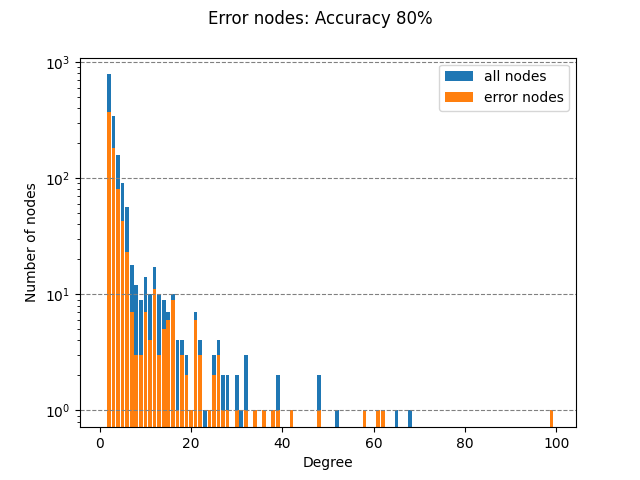
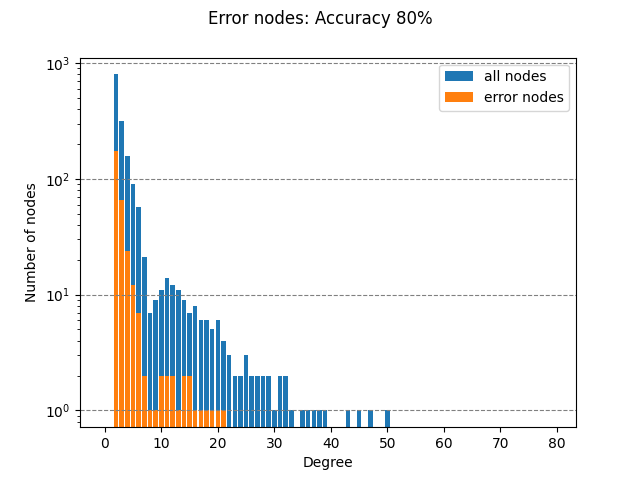
execute inspection

diff --git a/scalefree_graph/inspect_error_nodes.py b/scalefree_graph/inspect_error_nodes.py
@@ -79,15 +79,18 @@ def inspect_error_nodes():
         print('Labeled Node:' + str(cnt) + ', Accuracy: ' + str(1 - err/len(pred)))
         continue
 
+      for i,p in enumerate(pred):
+        all_degree[dict(net.degree())[i]] += (1/roop)
+        if p != t[i]:
+          error_degree[dict(net.degree())[i]] += (1/roop)
+
       if r == roop-1:
         network_degree = []
         error_nodes = []
         for i,p in enumerate(pred):
           network_degree.append(dict(net.degree())[i])
-          all_degree[dict(net.degree())[i]] += (1/roop)
           if p != t[i]:
             error_nodes.append(dict(net.degree())[i])
-            error_degree[dict(net.degree())[i]] += (1/roop)
 
         fig = plt.figure()
         fig.suptitle('Error nodes: Accuracy 80%')
@@ -110,4 +113,80 @@ def inspect_error_nodes():
     writer.writerow(all_degree)
     writer.writerow(error_degree)
 
-inspect_error_nodes()
+def generate_figure(option="random", h=100):
+  fig = plt.figure()
+  fig.suptitle('Error nodes: Accuracy 80%')
+  ax = fig.add_subplot(111)
+  ax.set_yscale('log')
+
+  with open(f'./scalefree_graph/error_nodes_{option}.csv', 'r') as f:
+    reader = csv.reader(f)
+    x = [i for i in range(h) ]
+    y = [ row for row in reader ]
+    for i in range(len(y)):
+      for j in range(len(y[i])):
+        y[i][j] = round(float(y[i][j]), 0)
+    ax.bar(x, y[0][:len(x)], label='all nodes')
+    ax.bar(x, y[1][:len(x)], label='error nodes')
+
+  ax.legend()
+  ax.set_xlabel('Degree')
+  ax.set_ylabel('Number of nodes')
+  ax.grid(axis='y', color='gray', linestyle='dashed')
+  fig.savefig(f'./scalefree_graph/error_nodes_{option}.png')
+
+def generate_plot(h = 100):
+  fig = plt.figure()
+  fig.suptitle('Error Nodes Rate: Accuracy 80%')
+  ax = fig.add_subplot(111)
+
+  with open(f'./scalefree_graph/error_nodes_random.csv', 'r') as f:
+    reader = csv.reader(f)
+    x = [i for i in range(h) ]
+    y = [ row for row in reader ]
+    for i in range(len(y)):
+      for j in range(len(y[i])):
+        y[i][j] = float(y[i][j])
+    z = [(1-y[1][i]/y[0][i]) if y[0][i] >= 1  else 1 for i in range(len(y[0]))]
+    ax.plot(x, z[:len(x)], label='random')
+
+  with open(f'./scalefree_graph/error_nodes_degree_desc.csv', 'r') as f:
+    reader = csv.reader(f)
+    x = [i for i in range(h) ]
+    y = [ row for row in reader ]
+    for i in range(len(y)):
+      for j in range(len(y[i])):
+        y[i][j] = float(y[i][j])
+    z = [(1-y[1][i]/y[0][i]) if y[0][i] >= 1 else 1 for i in range(len(y[0]))]
+    ax.plot(x, z[:len(x)], label='degree desc')
+
+  with open(f'./scalefree_graph/error_nodes_degree_asc.csv', 'r') as f:
+    reader = csv.reader(f)
+    x = [i for i in range(h) ]
+    y = [ row for row in reader ]
+    for i in range(len(y)):
+      for j in range(len(y[i])):
+        y[i][j] = float(y[i][j])
+    z = [(1-y[1][i]/y[0][i]) if y[0][i] >= 1 else 1 for i in range(len(y[0]))]
+    ax.plot(x, z[:len(x)], label='degree asc')
+
+  with open(f'./scalefree_graph/error_nodes_degree_com.csv', 'r') as f:
+    reader = csv.reader(f)
+    x = [i for i in range(h) ]
+    y = [ row for row in reader ]
+    for i in range(len(y)):
+      for j in range(len(y[i])):
+        y[i][j] = float(y[i][j])
+    z = [(1-y[1][i]/y[0][i]) if y[0][i] >= 1 else 1 for i in range(len(y[0]))]
+    ax.plot(x, z[:len(x)], label='degree complex')
+
+  ax.legend()
+  ax.set_xlabel('Degree')
+  ax.set_ylabel('Error Nodes Rate')
+  ax.grid(axis='x', color='gray', linestyle='dashed')
+  ax.grid(axis='y', color='gray', linestyle='dashed')
+  fig.savefig(f'./scalefree_graph/error_nodes_rate.png')
+
+# inspect_error_nodes()
+# generate_figure("random", 60)
+# generate_plot(60)

diff --git a/scalefree_graph/inspect_error_nodes2.py b/scalefree_graph/inspect_error_nodes2.py
@@ -77,15 +77,18 @@ def inspect_error_nodes():
         print('Labeled Node:' + str(cnt) + ', Accuracy: ' + str(1 - err/len(pred)))
         continue
 
+      for i,p in enumerate(pred):
+        all_degree[dict(net.degree())[i]] += (1/roop)
+        if p != t[i]:
+          error_degree[dict(net.degree())[i]] += (1/roop)
+
       if r == roop-1:
         network_degree = []
         error_nodes = []
         for i,p in enumerate(pred):
           network_degree.append(dict(net.degree())[i])
-          all_degree[dict(net.degree())[i]] += (1/roop)
           if p != t[i]:
             error_nodes.append(dict(net.degree())[i])
-            error_degree[dict(net.degree())[i]] += (1/roop)
 
         fig = plt.figure()
         fig.suptitle('Error nodes: Accuracy 80%')

diff --git a/scalefree_graph/inspect_error_nodes3.py b/scalefree_graph/inspect_error_nodes3.py
@@ -77,15 +77,18 @@ def inspect_error_nodes():
         print('Labeled Node:' + str(cnt) + ', Accuracy: ' + str(1 - err/len(pred)))
         continue
 
+      for i,p in enumerate(pred):
+        all_degree[dict(net.degree())[i]] += (1/roop)
+        if p != t[i]:
+          error_degree[dict(net.degree())[i]] += (1/roop)
+
       if r == roop-1:
         network_degree = []
         error_nodes = []
         for i,p in enumerate(pred):
           network_degree.append(dict(net.degree())[i])
-          all_degree[dict(net.degree())[i]] += (1/roop)
           if p != t[i]:
             error_nodes.append(dict(net.degree())[i])
-            error_degree[dict(net.degree())[i]] += (1/roop)
 
         fig = plt.figure()
         fig.suptitle('Error nodes: Accuracy 80%')

diff --git a/scalefree_graph/inspect_error_nodes4.py b/scalefree_graph/inspect_error_nodes4.py
@@ -77,15 +77,18 @@ def inspect_error_nodes():
         print('Labeled Node:' + str(cnt) + ', Accuracy: ' + str(1 - err/len(pred)))
         continue
 
+      for i,p in enumerate(pred):
+        all_degree[dict(net.degree())[i]] += (1/roop)
+        if p != t[i]:
+          error_degree[dict(net.degree())[i]] += (1/roop)
+
       if r == roop-1:
         network_degree = []
         error_nodes = []
         for i,p in enumerate(pred):
           network_degree.append(dict(net.degree())[i])
-          all_degree[dict(net.degree())[i]] += (1/roop)
           if p != t[i]:
             error_nodes.append(dict(net.degree())[i])
-            error_degree[dict(net.degree())[i]] += (1/roop)
 
         fig = plt.figure()
         fig.suptitle('Error nodes: Accuracy 80%')
